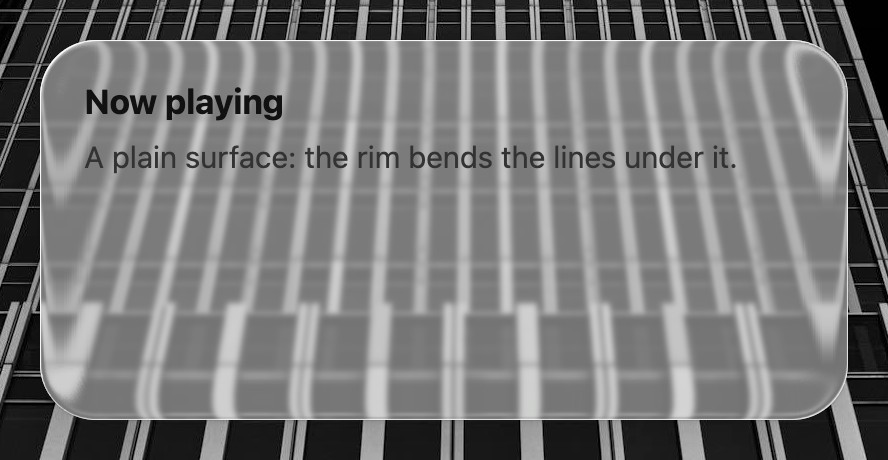
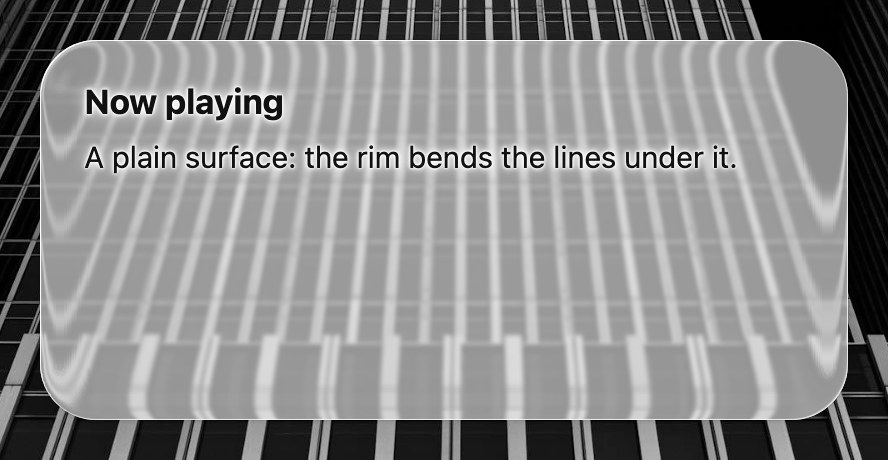
Follow Apple's two glass materials
Controls drop to 32% tint over 1 px of blur. Menus take data-glass-menu
and a 66% tint over 16 px. A halo holds labels on clear glass, and the
press light now sits under the label.

diff --git a/dist/glass-controls.css b/dist/glass-controls.css
@@ -1,12 +1,15 @@
 /* glass-controls: the material, rim light, shadow and control styles.
-   Works without the script: every [data-glass] element keeps the frosted material and native behaviour.
+   Works without the script: every [data-glass] element keeps the glass material and native behaviour.
    The script adds .gc once a control is wired, the refracting rim where the browser can run one
    (html.gc-live, Chromium), the springs, and the lenses. Tune everything with the custom properties. */
 
 :root {
   --gc-tint: #fff;           /* the glass colour */
-  --gc-tint-amount: 52%;     /* how much of it; the rest is the blurred backdrop */
-  --gc-blur: 14px;
+  --gc-tint-amount: 32%;     /* how much of it: a control is nearly clear, as Apple's are */
+  --gc-blur: 1px;
+  --gc-menu-tint-amount: 66%; /* a menu holds rows of text, so it is frosted */
+  --gc-menu-blur: 16px;
+  --gc-halo: rgb(255 255 255 / 0.98); /* hugs a label's letters; on a dark scene use a dark one and a white --gc-ink */
   --gc-saturate: 1.8;
   --gc-ink: #111;            /* text on glass */
   --gc-accent: #0a64d8;      /* a selected button */
@@ -25,8 +28,6 @@
   /* Two tones, so the ring reads over any photo. */
   --gc-focus: 0 0 0 2px #fff, 0 0 0 4.5px #111;
 }
-/* With a refracting rim the glass can be clearer: the rim, not the blur, says what it is. */
-html.gc-live { --gc-tint-amount: 42%; --gc-blur: 8px; }
 
 /* ---- The material ------------------------------------------------------------------------------------ */
 [data-glass="surface"], [data-glass="button"] {
@@ -38,6 +39,11 @@ html.gc-live { --gc-tint-amount: 42%; --gc-blur: 8px; }
   backdrop-filter: blur(var(--gc-blur)) var(--gc-lens,) saturate(var(--gc-saturate));
   box-shadow: var(--gc-rim), var(--gc-shadow);
 }
+/* Apple's second material: on a surface that holds rows, add data-glass-menu. */
+[data-glass="surface"][data-glass-menu] { --gc-tint-amount: var(--gc-menu-tint-amount); --gc-blur: var(--gc-menu-blur); --gc-halo: transparent; }
+:is([data-glass="surface"], [data-glass="button"], [data-glass="segmented"]) {
+  text-shadow: 0 0 1px var(--gc-halo), 0 0 1px var(--gc-halo), 0 0 2px var(--gc-halo), 0 0 3px var(--gc-halo), 0 0 8px var(--gc-halo);
+}
 
 /* ---- Buttons ----------------------------------------------------------------------------------------- */
 [data-glass="button"] {
@@ -48,14 +54,14 @@ html.gc-live { --gc-tint-amount: 42%; --gc-blur: 8px; }
   cursor: pointer; touch-action: pan-y; -webkit-tap-highlight-color: transparent;
   transition: background-color 160ms ease, color 160ms ease;
 }
-@media (hover: hover) { [data-glass="button"]:hover { --gc-tint-amount: 72%; } }
+@media (hover: hover) { [data-glass="button"]:hover { --gc-tint-amount: 48%; } }
 [data-glass="button"][aria-pressed="true"] {
-  --gc-tint: var(--gc-accent); --gc-tint-amount: 88%; color: var(--gc-accent-ink);
+  --gc-tint: var(--gc-accent); --gc-tint-amount: 88%; color: var(--gc-accent-ink); text-shadow: none;
 }
 [data-glass="button"]:focus-visible { outline: none; box-shadow: var(--gc-rim), var(--gc-shadow), var(--gc-focus); }
 /* The light under the finger, brightest at the peak of the press (--gc-p runs 0 to 1). */
 [data-glass="button"].gc::after {
-  content: ""; position: absolute; inset: 0; border-radius: inherit; pointer-events: none;
+  content: ""; position: absolute; inset: 0; z-index: -1; border-radius: inherit; pointer-events: none; /* under the label */
   background: radial-gradient(circle at var(--gc-lx, 50%) var(--gc-ly, 30%), rgb(255 255 255 / calc(var(--gc-p, 0) * 0.6)), transparent 70%);
 }
 [data-glass="button"]:not(.gc):active { scale: 0.97; }
@@ -117,10 +123,10 @@ html.gc-live { --gc-tint-amount: 42%; --gc-blur: 8px; }
 
 /* ---- For readers who ask for less ------------------------------------------------------------------- */
 @media (prefers-reduced-transparency: reduce) {
-  :root, html.gc-live { --gc-tint-amount: 94%; --gc-blur: 20px; }
+  :root { --gc-tint-amount: 94%; --gc-blur: 20px; --gc-menu-tint-amount: 94%; --gc-menu-blur: 20px; }
 }
 @media (prefers-contrast: more) {
-  :root, html.gc-live { --gc-tint-amount: 100%; --gc-shadow: 0 0 0 1.5px var(--gc-ink); }
+  :root { --gc-tint-amount: 100%; --gc-menu-tint-amount: 100%; --gc-shadow: 0 0 0 1.5px var(--gc-ink); }
 }
 @media (forced-colors: active) {
   [data-glass="surface"], [data-glass="button"] { backdrop-filter: none; -webkit-backdrop-filter: none; border: 1px solid CanvasText; background: Canvas; }

diff --git a/src/glass-controls.css b/src/glass-controls.css
@@ -1,12 +1,15 @@
 /* glass-controls: the material, rim light, shadow and control styles.
-   Works without the script: every [data-glass] element keeps the frosted material and native behaviour.
+   Works without the script: every [data-glass] element keeps the glass material and native behaviour.
    The script adds .gc once a control is wired, the refracting rim where the browser can run one
    (html.gc-live, Chromium), the springs, and the lenses. Tune everything with the custom properties. */
 
 :root {
   --gc-tint: #fff;           /* the glass colour */
-  --gc-tint-amount: 52%;     /* how much of it; the rest is the blurred backdrop */
-  --gc-blur: 14px;
+  --gc-tint-amount: 32%;     /* how much of it: a control is nearly clear, as Apple's are */
+  --gc-blur: 1px;
+  --gc-menu-tint-amount: 66%; /* a menu holds rows of text, so it is frosted */
+  --gc-menu-blur: 16px;
+  --gc-halo: rgb(255 255 255 / 0.98); /* hugs a label's letters; on a dark scene use a dark one and a white --gc-ink */
   --gc-saturate: 1.8;
   --gc-ink: #111;            /* text on glass */
   --gc-accent: #0a64d8;      /* a selected button */
@@ -25,8 +28,6 @@
   /* Two tones, so the ring reads over any photo. */
   --gc-focus: 0 0 0 2px #fff, 0 0 0 4.5px #111;
 }
-/* With a refracting rim the glass can be clearer: the rim, not the blur, says what it is. */
-html.gc-live { --gc-tint-amount: 42%; --gc-blur: 8px; }
 
 /* ---- The material ------------------------------------------------------------------------------------ */
 [data-glass="surface"], [data-glass="button"] {
@@ -38,6 +39,11 @@ html.gc-live { --gc-tint-amount: 42%; --gc-blur: 8px; }
   backdrop-filter: blur(var(--gc-blur)) var(--gc-lens,) saturate(var(--gc-saturate));
   box-shadow: var(--gc-rim), var(--gc-shadow);
 }
+/* Apple's second material: on a surface that holds rows, add data-glass-menu. */
+[data-glass="surface"][data-glass-menu] { --gc-tint-amount: var(--gc-menu-tint-amount); --gc-blur: var(--gc-menu-blur); --gc-halo: transparent; }
+:is([data-glass="surface"], [data-glass="button"], [data-glass="segmented"]) {
+  text-shadow: 0 0 1px var(--gc-halo), 0 0 1px var(--gc-halo), 0 0 2px var(--gc-halo), 0 0 3px var(--gc-halo), 0 0 8px var(--gc-halo);
+}
 
 /* ---- Buttons ----------------------------------------------------------------------------------------- */
 [data-glass="button"] {
@@ -48,14 +54,14 @@ html.gc-live { --gc-tint-amount: 42%; --gc-blur: 8px; }
   cursor: pointer; touch-action: pan-y; -webkit-tap-highlight-color: transparent;
   transition: background-color 160ms ease, color 160ms ease;
 }
-@media (hover: hover) { [data-glass="button"]:hover { --gc-tint-amount: 72%; } }
+@media (hover: hover) { [data-glass="button"]:hover { --gc-tint-amount: 48%; } }
 [data-glass="button"][aria-pressed="true"] {
-  --gc-tint: var(--gc-accent); --gc-tint-amount: 88%; color: var(--gc-accent-ink);
+  --gc-tint: var(--gc-accent); --gc-tint-amount: 88%; color: var(--gc-accent-ink); text-shadow: none;
 }
 [data-glass="button"]:focus-visible { outline: none; box-shadow: var(--gc-rim), var(--gc-shadow), var(--gc-focus); }
 /* The light under the finger, brightest at the peak of the press (--gc-p runs 0 to 1). */
 [data-glass="button"].gc::after {
-  content: ""; position: absolute; inset: 0; border-radius: inherit; pointer-events: none;
+  content: ""; position: absolute; inset: 0; z-index: -1; border-radius: inherit; pointer-events: none; /* under the label */
   background: radial-gradient(circle at var(--gc-lx, 50%) var(--gc-ly, 30%), rgb(255 255 255 / calc(var(--gc-p, 0) * 0.6)), transparent 70%);
 }
 [data-glass="button"]:not(.gc):active { scale: 0.97; }
@@ -117,10 +123,10 @@ html.gc-live { --gc-tint-amount: 42%; --gc-blur: 8px; }
 
 /* ---- For readers who ask for less ------------------------------------------------------------------- */
 @media (prefers-reduced-transparency: reduce) {
-  :root, html.gc-live { --gc-tint-amount: 94%; --gc-blur: 20px; }
+  :root { --gc-tint-amount: 94%; --gc-blur: 20px; --gc-menu-tint-amount: 94%; --gc-menu-blur: 20px; }
 }
 @media (prefers-contrast: more) {
-  :root, html.gc-live { --gc-tint-amount: 100%; --gc-shadow: 0 0 0 1.5px var(--gc-ink); }
+  :root { --gc-tint-amount: 100%; --gc-menu-tint-amount: 100%; --gc-shadow: 0 0 0 1.5px var(--gc-ink); }
 }
 @media (forced-colors: active) {
   [data-glass="surface"], [data-glass="button"] { backdrop-filter: none; -webkit-backdrop-filter: none; border: 1px solid CanvasText; background: Canvas; }

diff --git a/examples/nav.html b/examples/nav.html
@@ -18,7 +18,7 @@
   .bar { position: absolute; top: 20px; left: 50%; translate: -50%; display: flex; align-items: center; gap: 4px; padding: 4px; }
   .bar .more { min-height: 36px; padding: 0 14px 0 16px; border: 0; border-radius: 999px; background: none; font: 500 15px/20px system-ui; color: inherit; cursor: pointer; }
   .bar .more:focus-visible { outline: none; box-shadow: var(--gc-focus); }
-  .sheet { --gc-radius: 24px; --gc-tint-amount: 62%; position: absolute; top: 72px; left: 50%; translate: 60px 0; width: 200px; padding: 6px; transform-origin: 70% 0; transition: opacity 160ms, scale 240ms cubic-bezier(.32,.72,0,1); }
+  .sheet { --gc-radius: 24px; position: absolute; top: 72px; left: 50%; translate: 60px 0; width: 200px; padding: 6px; transform-origin: 70% 0; transition: opacity 160ms, scale 240ms cubic-bezier(.32,.72,0,1); }
   .sheet[hidden] { display: block; opacity: 0; scale: .9; pointer-events: none; visibility: hidden; }
 </style>
 <nav data-glass="surface" class="bar" aria-label="Main" id="bar">
@@ -27,7 +27,7 @@
   </ul>
   <button class="more" aria-expanded="false" aria-controls="sheet" id="more">More</button>
 </nav>
-<div data-glass="surface" class="sheet" id="sheet" hidden>
+<div data-glass="surface" data-glass-menu class="sheet" id="sheet" hidden>
   <ul data-glass="segmented" aria-orientation="vertical">
     <li><a href="#journal">Journal</a></li><li><a href="#talks">Talks</a></li><li><a href="#contact">Contact</a></li>
   </ul>

diff --git a/examples/surface.html b/examples/surface.html
@@ -15,7 +15,7 @@
 </head><body>
 <main class="scene" data-glass-scene style="place-items: end center; padding-bottom: 12vh; box-sizing: border-box"><img class="bg" src="photos/vertical-lines.jpg" style="object-position: 50% 80%" alt="">
 <div class="stage">
-  <div data-glass="surface" class="pane" id="card" style="--gc-blur: 1.5px; --gc-tint-amount: 42%; --gc-bezel: 30; --gc-refraction: 60; min-height: 150px">
+  <div data-glass="surface" class="pane" id="card" style="--gc-tint-amount: 56%; --gc-bezel: 30; --gc-refraction: 60; min-height: 150px">
     <h2>Now playing</h2><p>A plain surface: the rim bends the lines under it.</p>
   </div>
 </div>

diff --git a/examples/demo.css b/examples/demo.css
@@ -6,7 +6,7 @@ html, body { margin: 0; min-height: 100%; background: #111; font: 15px/1.4 syste
 .capsule { padding: 4px; }
 .pane { --gc-radius: 28px; padding: 20px 22px; width: min(360px, 80vw); }
 .pane h2 { margin: 0 0 4px; font-size: 17px; }
-.pane p { margin: 0; color: #333; }
+.pane p { margin: 0; }
 .pane label { display: block; margin-bottom: 6px; font-weight: 600; }
 .credit { position: absolute; right: 12px; bottom: 10px; margin: 0; font-size: 12px; color: #fff; text-shadow: 0 1px 2px #000; }
 .credit a { color: inherit; }

diff --git a/README.md b/README.md
@@ -54,6 +54,17 @@ With a bundler, `import 'glass-controls/glass-controls.css'`. Without one, map t
 
 Read [docs/design-rules.md](docs/design-rules.md) before putting glass on a page.
 
+## Two materials
+
+The kit follows Apple's Liquid Glass. Neither material is fully see-through.
+
+- **Controls** (a capsule, a button, a segmented row) are nearly clear: 32% tint over 1 px of blur.
+- **Menus** hold rows of text, so they are frosted: 66% tint over 16 px of blur. Add `data-glass-menu` to the surface.
+
+```html
+<div data-glass="surface" data-glass-menu>…</div>
+```
+
 ## The two optics
 
 Glass on the web can be made two ways, and each fails where the other works.
@@ -132,7 +143,7 @@ Old Playwright headless (`chromium-headless-shell`) does not render `backdrop-fi
 
 - **Native controls stay native.** The slider is a real `<input type="range">` kept in the page, unseen, for keys and screen readers. Segmented items are real buttons (`aria-pressed`) or links (`aria-current`).
 - **Focus rings on glass.** `--gc-focus` is a two-tone ring (white inside, near-black outside) so it reads over any photo. The slider's thumb takes the ring when its range has focus.
-- **Contrast over busy backgrounds.** Text on glass needs its tint. The default keeps 52% white (42% where the rim refracts); test your own scenes against WCAG 4.5:1 for body text, and raise `--gc-tint-amount` where a photo is busy behind text. See the [design rules](docs/design-rules.md).
+- **Contrast over busy backgrounds.** A control keeps 32% white, and a halo (`--gc-halo`) hugs its label's letters. Test your own scenes against WCAG 4.5:1 for body text. Raise `--gc-tint-amount` where a photo is busy behind text, and on a dark scene set a white `--gc-ink` with a dark `--gc-halo`. See the [design rules](docs/design-rules.md).
 - **Reduced motion.** Under `prefers-reduced-motion: reduce` every spring snaps to its target; nothing overshoots or stretches.
 - **Reduced transparency and more contrast.** `prefers-reduced-transparency` raises the tint to 94%; `prefers-contrast: more` makes the glass opaque with a solid outline.
 - **Forced colours.** Under `forced-colors: active` glass becomes `Canvas` with a `CanvasText` border, lenses hide, and the selection is a `Highlight` outline.
@@ -150,8 +161,10 @@ Every look is a custom property on `:root` or any element:
 
 | Property | Default | |
 |---|---|---|
-| `--gc-tint` / `--gc-tint-amount` | `#fff` / `52%` | Glass colour and how much of it |
-| `--gc-blur` / `--gc-saturate` | `14px` / `1.8` | Frost |
+| `--gc-tint` / `--gc-tint-amount` | `#fff` / `32%` | Glass colour and how much of it |
+| `--gc-blur` / `--gc-saturate` | `1px` / `1.8` | Frost |
+| `--gc-menu-tint-amount` / `--gc-menu-blur` | `66%` / `16px` | The frost on a `data-glass-menu` surface |
+| `--gc-halo` | white | Hugs a label's letters; `transparent` on a menu |
 | `--gc-ink` | `#111` | Text on glass |
 | `--gc-radius` | `999px` | Capsule by default |
 | `--gc-rim` / `--gc-shadow` | inset highlights / soft drop | Rim light and shadow |

diff --git a/docs/design-rules.md b/docs/design-rules.md
@@ -10,3 +10,4 @@ Glass is easy to overuse. These rules keep it doing one job: lifting controls of
 6. **Group what belongs together.** Controls that act on the same thing share one piece of glass (a segmented row in one capsule) rather than each floating alone.
 7. **Over nothing, no glass.** On a plain page there is nothing to bend. Use a quiet fill there and keep glass for where content passes behind.
 8. **Motion is feedback, not decoration.** The springs answer a finger. Nothing moves on its own, and under reduced motion nothing overshoots.
+9. **Controls nearly clear, menus frosted.** Apple's clearest glass is still not fully see-through, and its menus are frosted because they hold rows of text. Keep some tint on every control and put `data-glass-menu` on every menu.

diff --git a/docs/surface.md b/docs/surface.md
@@ -6,6 +6,8 @@
 
 The glass material on any element: tint (`--gc-tint`, `--gc-tint-amount`), frost (`--gc-blur`, `--gc-saturate`), rim light (`--gc-rim`) and shadow (`--gc-shadow`). It works without the script.
 
+A surface that holds rows of text is a menu. Add `data-glass-menu` and it takes Apple's frosted material (`--gc-menu-tint-amount`, `--gc-menu-blur`). Controls stay nearly clear.
+
 With the script, in Chromium, the rim refracts the live page under it. Three unitless properties tune it, read when the surface is wired and when it resizes:
 
 - `--gc-bezel` (default 14): how far in from the edge the rim curves, in px.
